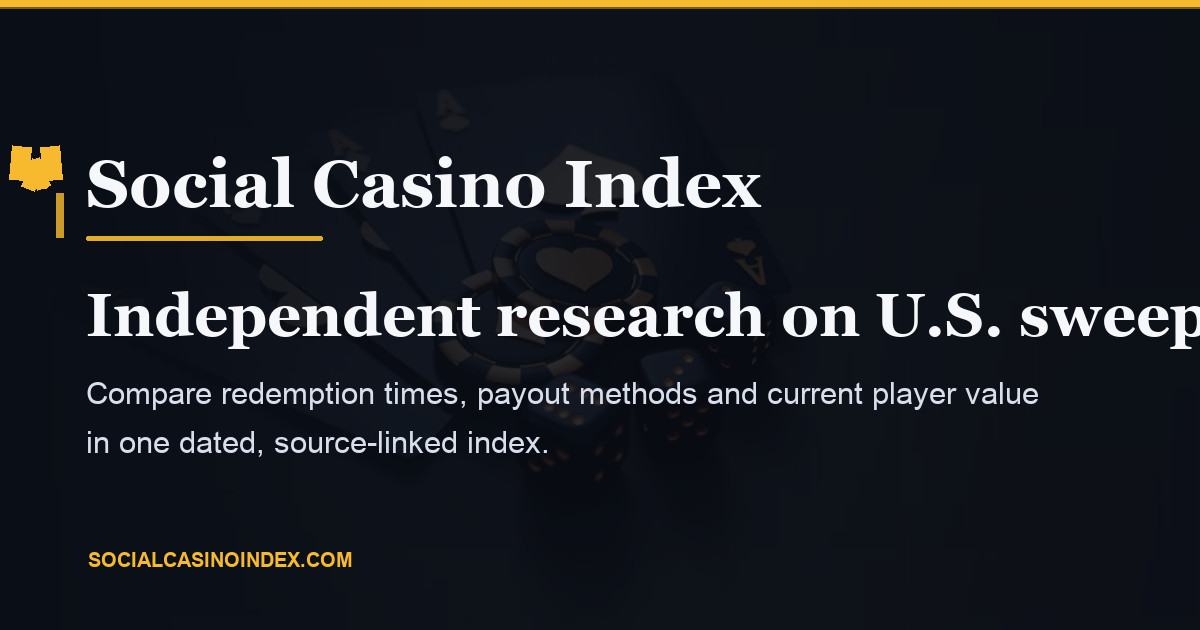
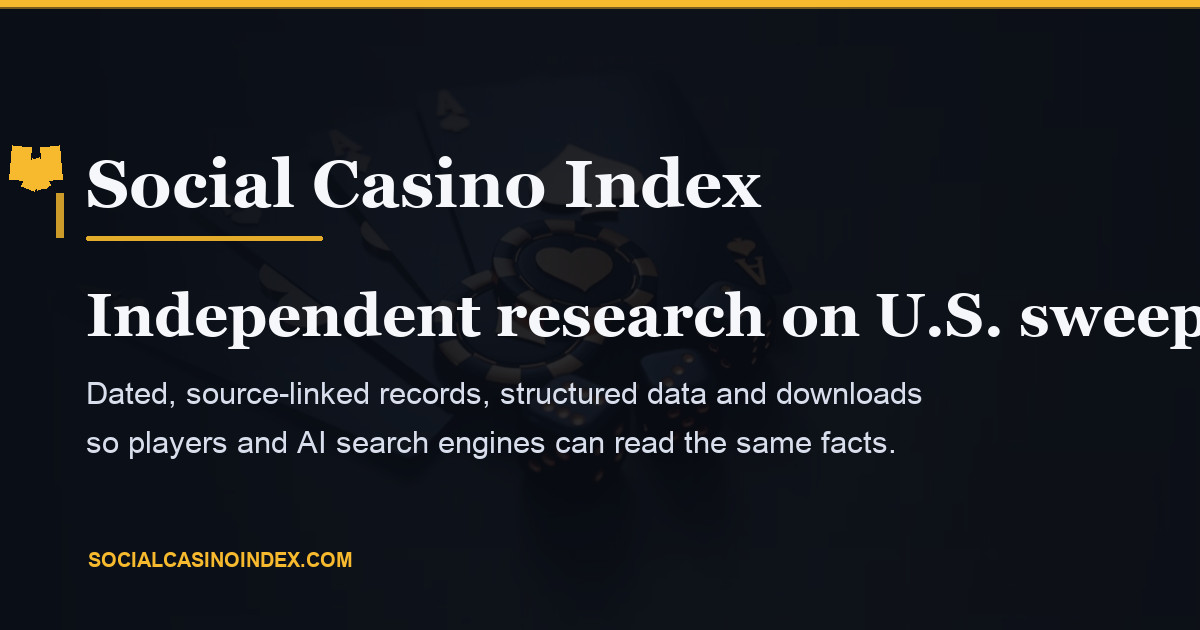
Position homepage as transparency service

Changed region(s): [[0.0617, 0.6032, 0.8633, 0.6635], [0.0617, 0.6937, 0.74, 0.7238]]

diff --git a/docs/index.html b/docs/index.html
@@ -3,13 +3,13 @@
 <head>
 <meta charset="utf-8">
 <meta name="viewport" content="width=device-width, initial-scale=1">
-<title>Best Social Casinos: Offers, Games and Redemptions Compared | Social Casino Index</title>
-<meta name="description" content="Compare social casinos by redemption time, methods, minimums, game selection, availability and current player value. Operator records are dated and source-linked.">
+<title>Social Casino Transparency and Payout Research | Social Casino Index</title>
+<meta name="description" content="Dated, source-linked operator records make social casino offers, games, availability, payout methods, minimums and restrictions easier to compare. Unknown terms stay unknown.">
 <link rel="canonical" href="https://socialcasinoindex.com/">
 <meta property="og:type" content="website">
 <meta property="og:site_name" content="Social Casino Index">
-<meta property="og:title" content="Best Social Casinos: Offers, Games and Redemptions Compared">
-<meta property="og:description" content="Compare social casinos by redemption time, methods, minimums, game selection, availability and current player value. Operator records are dated and source-linked.">
+<meta property="og:title" content="Social Casino Transparency and Payout Research">
+<meta property="og:description" content="Dated, source-linked operator records make social casino offers, games, availability, payout methods, minimums and restrictions easier to compare. Unknown terms stay unknown.">
 <meta property="og:url" content="https://socialcasinoindex.com/">
 <meta property="og:image" content="https://socialcasinoindex.com/assets/social-card.jpg">
 <meta property="og:image:secure_url" content="https://socialcasinoindex.com/assets/social-card.jpg">
@@ -18,8 +18,8 @@
 <meta property="og:image:height" content="630">
 <meta property="og:image:alt" content="Social Casino Index: independent research on US sweepstakes casino redemption times and payout methods.">
 <meta name="twitter:card" content="summary_large_image">
-<meta name="twitter:title" content="Best Social Casinos: Offers, Games and Redemptions Compared">
-<meta name="twitter:description" content="Compare social casinos by redemption time, methods, minimums, game selection, availability and current player value. Operator records are dated and source-linked.">
+<meta name="twitter:title" content="Social Casino Transparency and Payout Research">
+<meta name="twitter:description" content="Dated, source-linked operator records make social casino offers, games, availability, payout methods, minimums and restrictions easier to compare. Unknown terms stay unknown.">
 <meta name="twitter:image" content="https://socialcasinoindex.com/assets/social-card.jpg">
 <meta name="twitter:image:alt" content="Social Casino Index: independent research on US sweepstakes casino redemption times and payout methods.">
 <link rel="preconnect" href="https://fonts.googleapis.com">
@@ -149,11 +149,11 @@
 <main>
 <section class="hero-bg relative -mt-px flex min-h-[64vh] items-center">
   <div class="wrap py-16">
-    <h1 class="mb-5 max-w-3xl font-serif text-[2.6rem] font-semibold leading-[1.06] text-white sm:text-[3.4rem]">Compare what social casinos actually give players - and how fast they pay.</h1>
-    <p class="mb-8 max-w-2xl text-lg leading-relaxed text-white/85">Offers, games, redemption methods, payout timing, minimums and restrictions in one dated, source-linked index. Unknown terms stay marked as unknown.</p>
+    <h1 class="mb-5 max-w-3xl font-serif text-[2.6rem] font-semibold leading-[1.06] text-white sm:text-[3.4rem]">The transparency layer for social gaming.</h1>
+    <p class="mb-8 max-w-2xl text-lg leading-relaxed text-white/85">We turn fragmented, JavaScript-heavy operator terms into dated, source-linked, machine-readable records. Offers, games, availability, redemptions, minimums and restrictions stay comparable as the landscape changes. Unknown terms stay unknown.</p>
     <div class="answer-first mb-8 max-w-2xl">
       <span class="af-label">In short</span>
-      <p>By published terms, most social casino redemptions take 2-7 business days, and first redemptions are often slower because identity verification runs first. We compare 10 operators with dated, source-linked records. <a href="/research/sweepstakes-casino-redemption-times/">Read the full redemption research</a>.</p>
+      <p>The index publishes human-readable pages, structured metadata, and downloadable JSON and CSV data. By published terms, most social casino redemptions take 2-7 business days, and first redemptions are often slower because identity verification runs first. <a href="/research/sweepstakes-casino-redemption-times/">Read the redemption research</a> or <a href="#compare">browse the full index</a>.</p>
     </div>
     <div class="flex flex-wrap gap-3">
       <a href="#compare" class="btn btn-primary"><i class="ph ph-scales" aria-hidden="true"></i> Compare casinos</a>

diff --git a/scripts/render-social-card.py b/scripts/render-social-card.py
@@ -81,13 +81,13 @@ draw.text((86, 280), headline, font=headline_font, fill=WHITE)
 detail_font = ImageFont.truetype(sans_regular, 31)
 draw.text(
     (86, 375),
-    "Compare redemption times, payout methods and current player value",
+    "Dated, source-linked records, structured data and downloads",
     font=detail_font,
     fill=SUBTLE,
 )
 draw.text(
     (86, 424),
-    "in one dated, source-linked index.",
+    "so players and AI search engines can read the same facts.",
     font=detail_font,
     fill=SUBTLE,
 )

diff --git a/CHANGELOG.md b/CHANGELOG.md
@@ -14,6 +14,11 @@ Format:
 
 ---
 
+## 2026-09-09 - Homepage positioning: transparency service
+- Homepage now positions the site as a maintained transparency service: human-readable records, structured metadata, JSON/CSV downloads, no operator count claim.
+- Updated homepage SEO title/description and social-card copy to match the service framing; build regenerates `docs/`.
+
+## 2026-09-09 - Brand mark and social sharing metadata
 ## 2026-09-09 - Brand mark and social sharing metadata
 - Replaced the top-nav geometric mark with the gold Phosphor `crown-simple` icon.
 - Added Open Graph and Twitter large-image metadata, plus a tracked 1200x630 social card that states the site's actual purpose.
